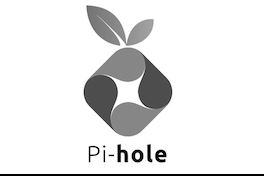
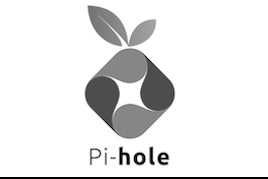
Increase size of image for splash screen

diff --git a/src/padd_eink/eink_display.py b/src/padd_eink/eink_display.py
@@ -46,7 +46,7 @@ connection_failed_at_boot = False
 # --- e-Ink Drawing Functions ---
 def draw_splash_screen(epd, logo_image, width, height):
     logger.info("Displaying 4-gray splash screen...")
-    image = Image.new("L", (width, height), 255)
+    image = Image.new("L", (width + 2, height + 2), 255)
     draw = ImageDraw.Draw(image)
     if logo_image:
         logo_w, logo_h = logo_image.size
